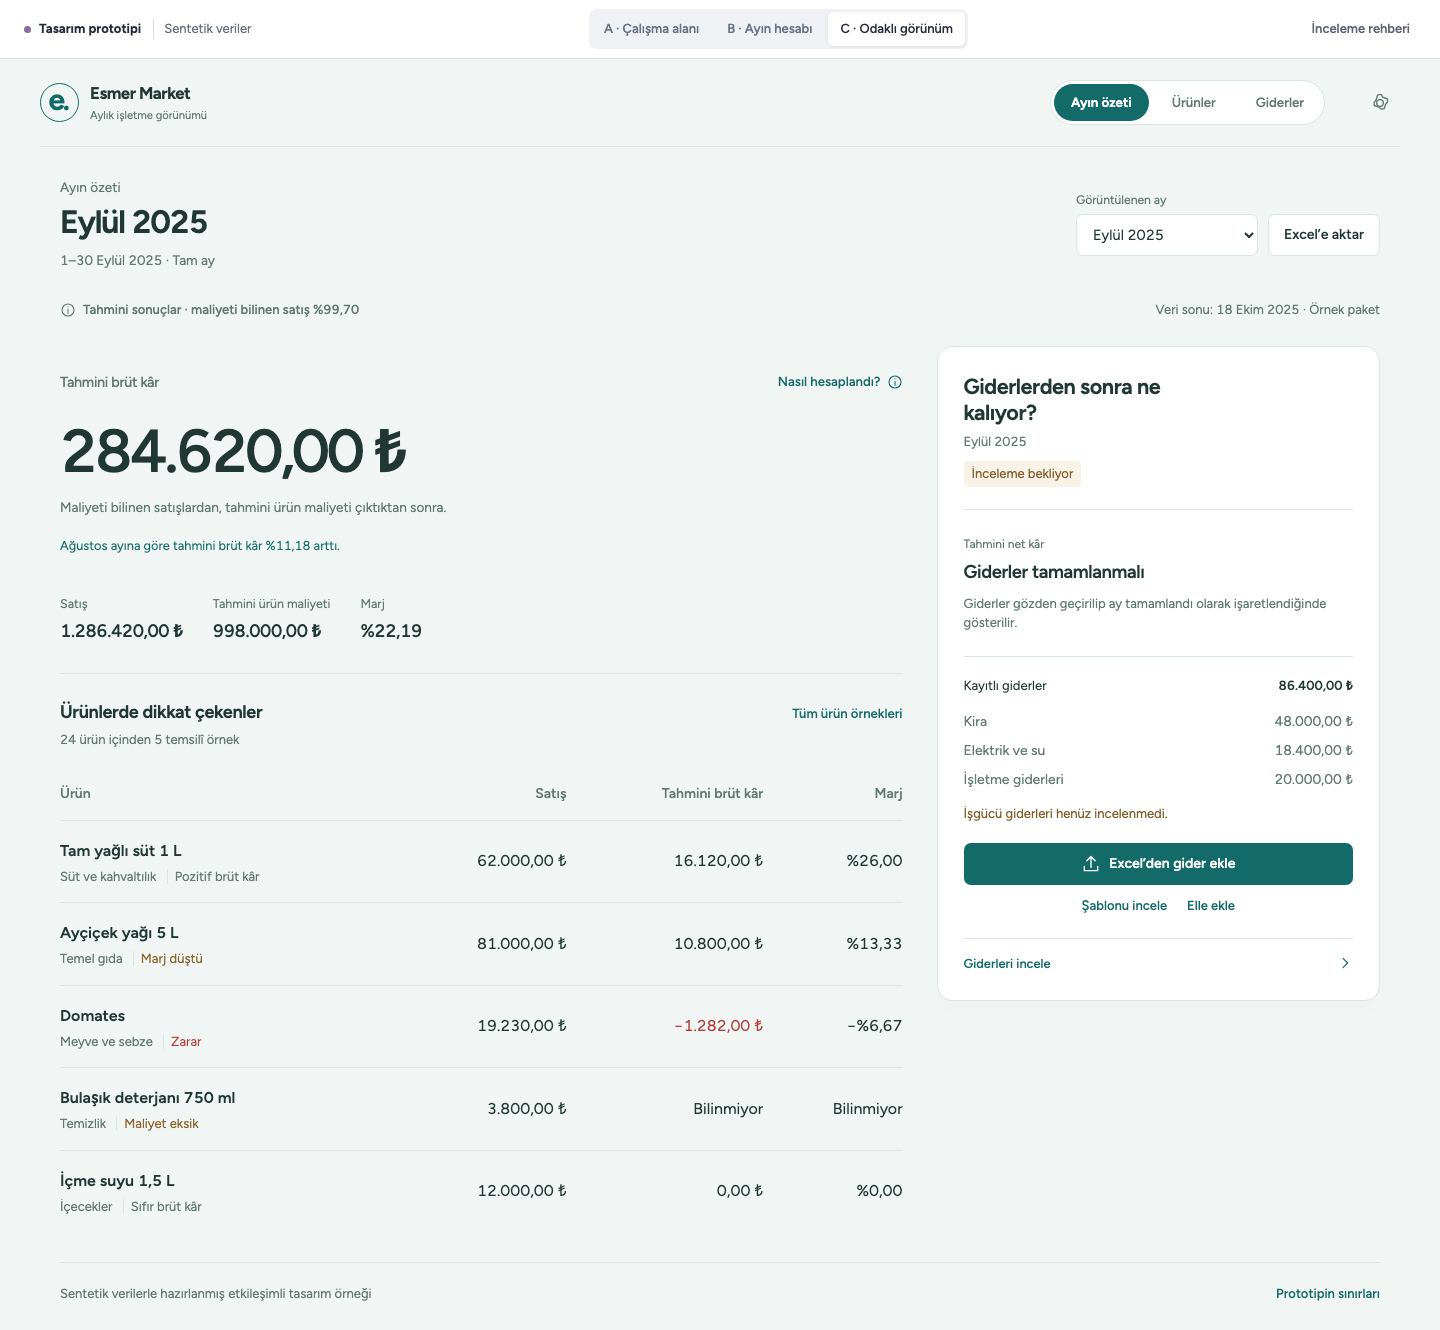
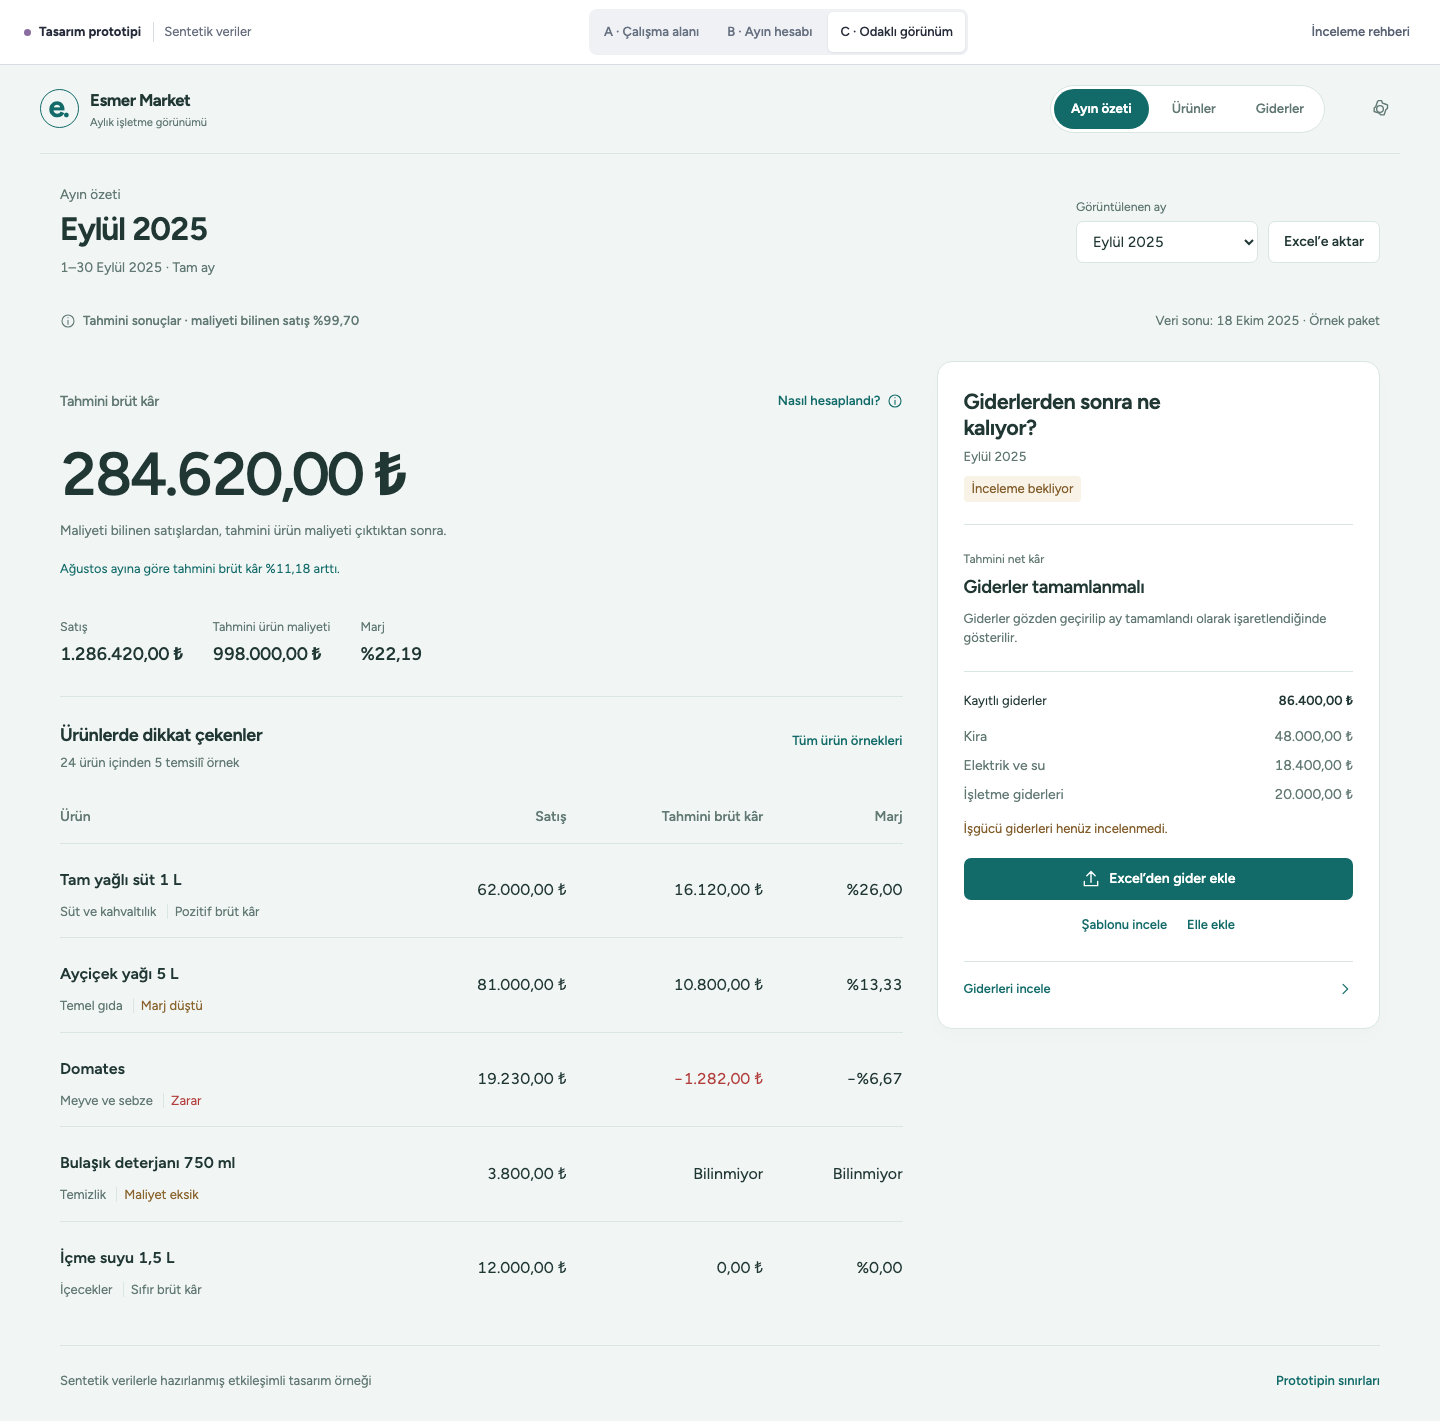
fix(ui): preserve accessible prototype action targets

diff --git a/prototypes/visual-directions/style.css b/prototypes/visual-directions/style.css
@@ -28,7 +28,8 @@ button,input,select {
   font:inherit
 }
 button {
-  cursor:pointer
+  cursor:pointer;
+  min-height:40px;
 }
 button,select,input {
   touch-action:manipulation
@@ -170,7 +171,7 @@ a {
   padding:7px 12px;
   border-radius:5px;
   font-size:13px;
-  min-height:34px;
+  min-height:40px;
   white-space:nowrap;
   color:#657080
 }
@@ -181,7 +182,7 @@ a {
 }
 .review-help {
   font-size:13px;
-  min-height:34px;
+  min-height:40px;
   color:#5a6375;
   white-space:nowrap
 }
@@ -371,7 +372,7 @@ main {
   display:inline-flex;
   align-items:center;
   gap:6px;
-  min-height:32px
+  min-height:40px
 }
 .text-button:hover {
   text-decoration:underline
@@ -395,7 +396,7 @@ main {
   gap:7px;
   color:var(--muted);
   font-size:inherit;
-  min-height:32px;
+  min-height:40px;
   padding:3px 0
 }
 .trust svg {
@@ -521,7 +522,7 @@ main {
   text-align:left;
   gap:8px;
   padding:0;
-  min-height:28px
+  min-height:40px
 }
 .product-name svg {
   width:13px;
@@ -962,7 +963,7 @@ main {
 .direction-c .app-nav button {
   border-radius:20px;
   padding:7px 17px;
-  min-height:37px;
+  min-height:40px;
   font-size:.83em
 }
 .direction-c .app-nav svg {
@@ -1775,7 +1776,7 @@ dialog::backdrop {
   .result-heading .text-button {
     font-size:.75em;
     text-align:right;
-    min-height:26px
+    min-height:40px
   }
   .result-heading h2 {
     padding-top:3px

diff --git a/prototypes/visual-directions/VERIFICATION.md b/prototypes/visual-directions/VERIFICATION.md
@@ -23,9 +23,10 @@ September expense examples are 48,000 rent, 18,400 utilities and 20,000 operatin
 ## Observed checks
 
 - The first browser test failed against the placeholder interface because the visual-direction control did not exist; it passed after implementation. An earlier startup attempt exposed an incorrect test-host relative path, which was corrected before the behavioral red/green check.
-- Five public-interface browser tests pass: month/result atomic transition in all directions; valid zero versus unknown/absent/partial states; product search/detail/focus return; honest expense previews; all directions at 680 × 800 with larger text and keyboard dialogs.
+- Six public-interface browser tests pass: month/result atomic transition in all directions; valid zero versus unknown/absent/partial states; product search/detail/focus return; honest expense previews; all directions at 680 × 800 with larger text and keyboard dialogs; existing 40 × 40 px minimum hit areas for visible buttons at both 1440 and 680 px.
 - Larger text visibly increases the dialog heading as well as the workspace. Escape returns focus to the original control. The page has no horizontal overflow at the tested narrow size; product tables have labelled internal horizontal scrolling.
 - The coordinating agent separately checked gross/margin pairs and September’s percentage change using Python Decimal; the literal values agree. This is fixture arithmetic sanity checking, not source-semantic proof.
+- Standards review identified application action targets below the existing 40 px minimum. The accessibility revision raises product-name, trust, calculation, text-link, review and navigation buttons to at least 40 px, preserving the three compositions. Review-strip buttons also use 40 px. A public browser hit-area regression failed against the prior stylesheet (34 px review control), then passed after the revision. The six-test browser suite was rerun and screenshots recaptured after this revision.
 - JavaScript syntax checks, focused ESLint and `git diff --check` pass.
 - Reproducible screenshots cover all directions at 1440 × 900, plus A at 680 × 800 with larger text and an enlarged explanation. The captured image can extend below the viewport to show the actual scrollable page.
 
